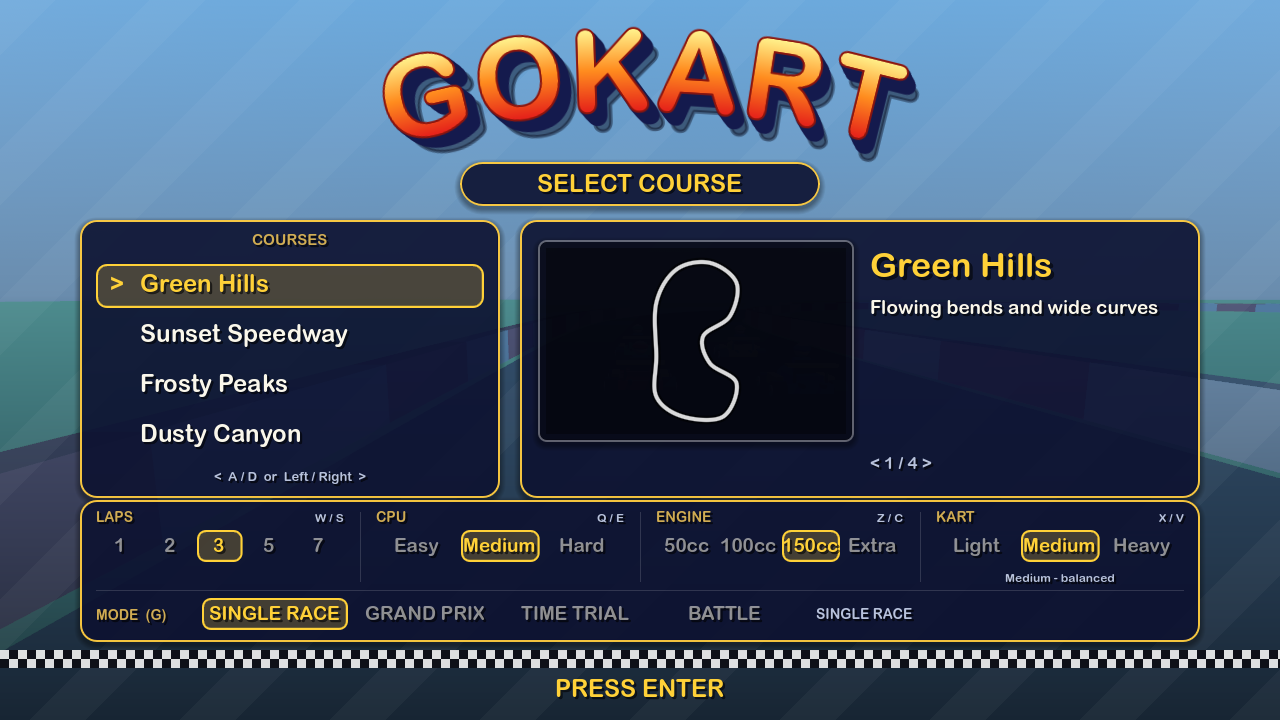
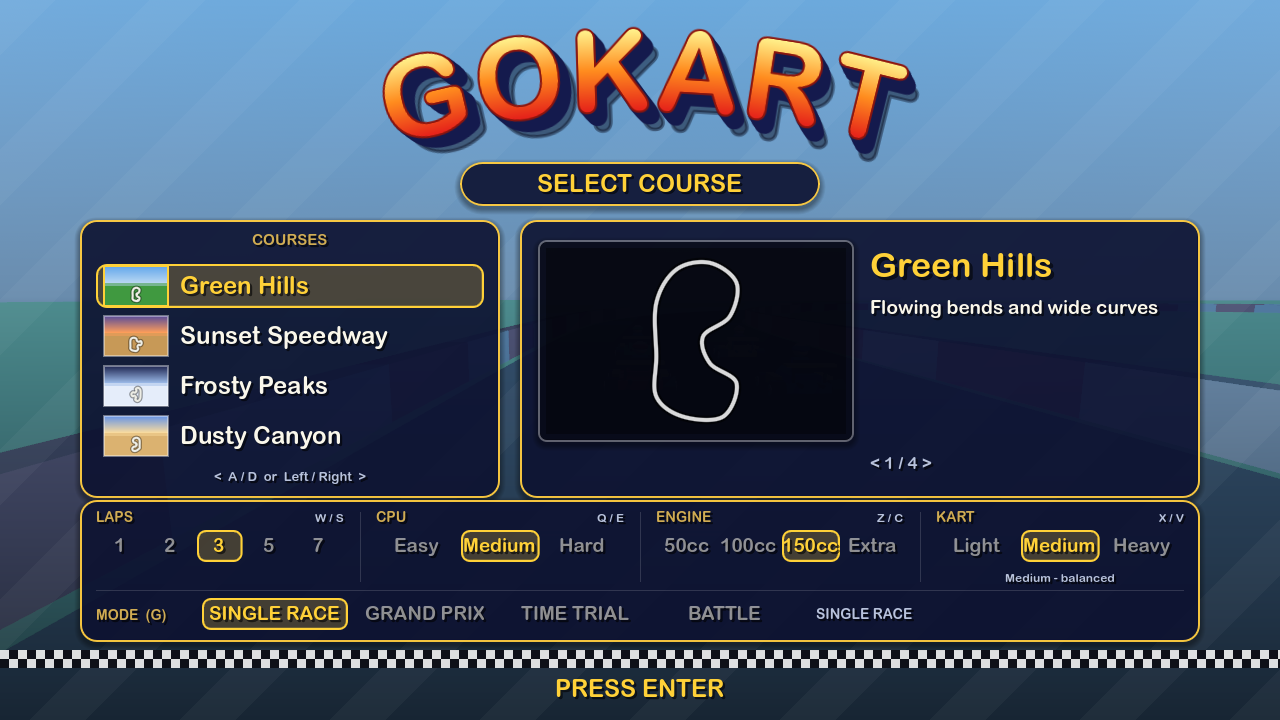
Mario Kart 64 style map-select pictures on the course list: every row of the select screen's course / arena list carries a little picture beside its name — a landscape in the course's own colours (sky gradient over the ground with a haze at the horizon) with the road loop laid across it — framed in 

Changed region(s): [[0.0625, 0.3667, 0.3125, 0.6417]]

diff --git a/.agent/autopilot/progress.md b/.agent/autopilot/progress.md
@@ -1336,6 +1336,18 @@ Mario Kart 64 style **logo** on the title / select screens (menu.gd / new shader
 - Tests: new `tests/test_logo.gd` (3 tests: arch maths; letters in order / lower and leaning at the edges / inside the box / word centred / clears the banner; layer stack colours, offsets, rim 7 px, shader params, no outline > 7, no drop shadow on the layers, no black). Suite **12836 passed, 0 failed**; menu_check OK (incl. the other /auto's in-progress files in the tree).
 - Windowed probe (deleted) sampled /tmp/gokart_title.png: logo band yellow 5797 / orange 9739 / red 5935 px, navy extrusion 17685, dark red rim 4878, **0 black**; first lit row yellow only, last lit row red only (gradient top -> bottom); middle letters' baseline 265 vs edge letters' 298 at x1.3 (arch); select screen: logo rows 32..135, 0 logo pixels in the banner strip. `tools/menu_shot.gd` regenerated `assets/screenshots/title.png` + `title-menu.png`; README updated.
 Remaining: the attract demo keeps the last course while browsing battle arenas (minor).
+## Cycle 8 — 2026-10-03 20:23
+Cycle 8 (menus / title shot): replaced the plain red-with-gold-outline "GOKART" Label with a **Mario Kart 64–style logo** — committed as 7dfe440 (+ e96af43 project memory). Only my files were staged; the other /auto's uncommitted drift work (hud.gd, kart*.gd, sound_synth.gd, test_effects/items/kart_physics, tools/screenshot.gd, drift_check.gd, .agent/subagents/) was left untouched.
+
+**What changed**
+- `scripts/menu.gd` `_build_title`: web sources describe MK64's wordmark as massive letters shaded yellow → orange → red with bold shadows for a 3D look. "GOKART" is now set on an **arch** (`logo_letter_pose(centre_x, radius)` — pure: drop below the crown + tilt along the arc; radius 900 → edge letters ~26 px lower, ~14° lean), each letter its own Control turning about its baseline centre and holding a stack of Labels: a soft navy shadow, **8 navy extrusion layers** (conscious decision: MK64's block sides are black; GoKart's are deep navy — the goal forbids black outlines), a **dark red rim** (UiStyle.SIGN_RIM via `style_sign`, 7 px — the same rim as the countdown / banners, so the game's "sign" language is consistent), and a **gradient fill** painted by the new `shaders/logo_gradient.gdshader` (canvas_item shader keyed on the glyph's local y over the cap height: light yellow → orange → LOGO_RED). The old −4° slant and gold outline are gone (the arch replaces the slant). Box 800×156 at y 4 so the whole stack clears the SELECT banner at 162. Removed menu.gd's now-unused `LOGO_RIM` alias (UiStyle keeps it).
+- Tests: new `tests/test_logo.gd` (3 tests: arch maths; letters in order, lower + leaning at the edges, inside the box, word centred, clear of the banner; layer colours / offsets / rim 7 px / shader params / no outline > 7 / no drop shadow on layers / no black). Full suite **12836 passed, 0 failed** (with the other session's in-progress files in the tree); menu_check OK.
+- Verification (I can't view images): a windowed probe (deleted) sampled the title shot — logo band yellow 5797 / orange 9739 / red 5935 px, navy extrusion 17685, dark red rim 4878, **0 black px**; first lit row yellow only, last lit row red only (gradient runs top → bottom); middle letters' baseline at row 265 vs edge letters' at 298 (arch visible); on the select screen the logo spans rows 32..135 and 0 logo pixels land in the banner strip. `tools/menu_shot.gd` regenerated `assets/screenshots/title.png` + `title-menu.png`; README (caption, Title screen feature, shaders list) and progress.md updated.
+
+**Assumptions**: MK64 logo look taken from written descriptions (gradient + 3D shadows) and memory of the arched layout; palette kept in GoKart's own warm red/gold family with navy depth, no Nintendo marks/fonts. No parity folders were given, so nothing was mirrored.
+
+**Remaining**: the attract demo keeps the last course while browsing battle arenas (minor). Blockers: none.
+
 ## Cycle 22 (session 5) — MK64 powerslide hop + stick-toggle mini-turbo
 - Web search confirmed MK64's mini-turbo: hop (R) into the powerslide, then tilt the stick against the slide and back — the smoke behind the kart turns from white to yellow, a second toggle turns it orange / red, release the slide on red for the boost (no boost before that); a steady slide never charges.
 - `scripts/kart_physics.gd`: the drift charge is now the number of completed stick toggles (`drift_outward` armed when `steer * drift_direction < -TOGGLE_STEER 0.3`, a toggle completes when it comes back past +0.3), `drift_charge_thresholds [1, 2]` (yellow / red), `boost_durations [0.0, 1.3]` — `_end_drift` only boosts when the stage's duration is > 0, so releasing on yellow gives nothing; the time-based charge line is gone. Level 3 / purple no longer exists.
@@ -1344,3 +1356,27 @@ Remaining: the attract demo keeps the last course while browsing battle arenas (
 - `tools/drift_check.gd` DRIFT CHECK: OK (after GO the player is set on the left of the road at 16 m/s: hop leaves the ground and lands, steady slide white / level 0, one toggle yellow + "MINI-TURBO..." and no boost / flames / flash on release, second slide white again with a hop, two toggles red, release -> boost_from_drift level 2, red flames, red flash, hop / mini-turbo / boost sounds). `tools/screenshot.gd` starts its slide from the left of the road at 16 m/s (the start straight's right wall is 8 m away) and toggles the stick every 8 frames until red — drift_charged shot now at lvl=2, drift shot mid-hop (y 0.275). start_check OK, smoke 7/7. README (physics line, controls, tools).
 - Finding: Green Hills' start straight is dead straight for the first ~60 m — a right-hand drift from the centre at 30 m/s hits the right wall within ~40 frames whatever the arc, so drift tools must start from the left edge at low speed.
 - Remaining MK64 ideas: a slide held too far inside goes sideways and slows (MK64), slippery road on Frosty Peaks, staff ghosts, visible Lakitu for AI rescues, Double Deck arena, AI false starts on Easy, AI shield vs red shells, cows beside Green Hills, hazards on the menu preview, Sherbet Land penguins, random_drive bot toggling for mini-turbos.
+## Cycle 22 — 2026-10-03 20:27
+Cycle 22: made the drift / mini-turbo behave like **Mario Kart 64's powerslide** — committed as c900e43 (+ 49df948 project memory). Only my files were staged; the other session's uncommitted `menu.gd` / `menu_check.gd` / `.agent/subagents/` and its progress.md hunk were left alone (progress.md committed as HEAD + my block via hash-object / update-index).
+
+**What I did**
+- Web search confirmed MK64's rules: hop (R) into the slide; tilt the stick against the slide and back — smoke turns white → yellow → orange/red on the second toggle; release on red for the boost; a steady slide never charges and yellow gives nothing.
+- `scripts/kart_physics.gd`: charge = completed stick toggles (`drift_outward` armed below −0.3, completed past +0.3), thresholds `[1, 2]` (yellow / red), `boost_durations [0.0, 1.3]` — `_end_drift` boosts only when the stage's duration > 0; the time-based blue/orange/purple charge is gone.
+- `scripts/kart.gd`: `DRIFT_HOP 4.0` m/s on `drift_started` when not airborne, scaled 1/√mass (light karts hop higher; ~0.3 m, 17 frames). `scripts/kart_effects.gd`: smoke colours white / yellow / orange-red, flame tints per stage. `scripts/hud.gd`: "MINI-TURBO..." / "MINI-TURBO!". `scripts/sound_synth.gd`: `drift_start` is a rising hop sweep.
+- Tests: test_kart_physics (steady slide stays 0, toggles 1→2→capped, boost level 2 on release, yellow release = no boost, out-then-in rules, weak push ignored, new slide starts white), test_effects (hop via hand-wired Kart node, no hop mid-air, light kart higher, toggle-based `_drift_to_level`, MK64 colours), test_items updated. Full suite **12836 passed, 0 failed**.
+- New `tools/drift_check.gd` → **DRIFT CHECK: OK** (hop leaves/lands, white steady slide, one toggle yellow + no boost/flames/flash, second slide hops again, two toggles red → boost_from_drift level 2, red flames + flash, sounds). `tools/screenshot.gd` now starts its slide from the left road edge at 16 m/s and toggles until red (drift_charged shot at lvl=2, drift shot mid-hop). start_check OK, smoke 7/7. README (physics feature line, controls table, tools), progress log, project memory updated.
+
+**Assumptions**: hop height, toggle threshold 0.3, 1.3 s boost and smoke colours are my tuning; no boost at yellow (faithful to MK64 sources); AI karts never drift so they are unaffected; the random_drive bot does not toggle (no mini-turbos in random shots). Finding: Green Hills' start straight is dead straight, so a right drift from the centre at 30 m/s hits the right wall in ~40 frames — drift tools must start from the left edge at low speed.
+
+**Remaining MK64 parity ideas**: a slide held too far inside goes sideways and slows (MK64), slippery road on Frosty Peaks, staff ghosts, visible Lakitu for AI rescues, Double Deck arena, AI false starts on Easy, AI shield vs red shells, cows beside Green Hills, hazards on the menu preview, Sherbet Land penguins, random_drive toggling for mini-turbos.
+
+**Blockers**: none. No parity folders were given, so nothing was mirrored folder-wise.
+
+
+## Cycle 9 (menus) — 2026-10-03
+Mario Kart 64 **map-select pictures on the course list** (menu.gd / tools/menu_check.gd / new tests/test_course_list.gd / title-menu.png / README only; the other /auto's drift files untouched):
+- `scripts/menu.gd`: new inner class `CourseThumb` (Control, `_draw`): a 64x40 landscape in the course's own colours — sky_top -> sky_horizon gradient over the top 42 %, the ground colour below with a haze line at the horizon, the road loop laid across the ground strip (`CourseThumb.loop_points(points, area, pad)`, pure: `Minimap.fit` into the strip, closed) in a dark ground shade with a cream centre line, a 2 px frame — white 40 % normally, GOLD on the picked row. `_refresh_list(names, sel, pictures)` now builds a `Row<i>` Control per course / arena holding the `Thumb` + the `Name` label (x 100, `UiStyle.style_label`, gold when picked, cream otherwise) over the lit bar; the ">" cursor glyph is gone (conscious decision: MK64 marks the pick with the lit frame, not a caret). Pictures come from `_track_pictures(mirror)` / `_arena_pictures()` (cached in `picture_cache` per course + mirror / per arena, so a key press does not resample every course). Constants LIST_ROW_Y / LIST_ROW_STEP / LIST_BAR_H / THUMB_POS / THUMB_SIZE / LIST_NAME_X.
+- `tools/menu_check.gd`: list rows = count + 1 (rows + lit bar; no cursor). MENU CHECK: OK. The "3 ObjectDB instances leaked" warning is the same on HEAD's menu.gd (checked by swapping the file in).
+- Tests: new `tests/test_course_list.gd` (3 tests: loop_points closed / inside the ground strip / aspect kept / empty; every row carries the course's colours + the whole loop inside the picture inside the bar, only the picked picture lit, name right of the picture, gold / cream, no outline, Right moves the frame + bar, cache keys plain vs mirrored; battle mode: a row per arena in the arena's colours with the gold frame on the picked one). Suite **12877 passed, 0 failed**.
+- Windowed probe (deleted) sampled the select shot: four pictures at x 104, y 266 / 316 / 366 / 416; each picture's top pixel in its course's sky shade and bottom-left in its ground colour (Green Hills green, Sunset sand, Frosty snow, Dusty Canyon tan), road pixels present, gold frame only on the picked row, **0 black px**. `tools/menu_shot.gd` regenerated `assets/screenshots/title-menu.png`; README updated.
+Remaining: the attract demo keeps the last course while browsing battle arenas (minor); `_refresh_battle` builds an ArenaData per refresh for the preview (pre-existing, cheap).

diff --git a/README.md b/README.md
@@ -10,7 +10,7 @@ A Mario Kart–style arcade kart racer built with **Godot 4** and GDScript. Ever
 
 ![The title screen: the arched GOKART logo over the attract demo, four CPU karts lapping the course](assets/screenshots/title.png)
 
-![The select screen: course list, map window and the option rows — every choice listed, the picked one lit — over the dimmed demo](assets/screenshots/title-menu.png)
+![The select screen: the course list with a picture beside each course, map window and the option rows — every choice listed, the picked one lit — over the dimmed demo](assets/screenshots/title-menu.png)
 
 ![Chasing the pack on Green Hills, 4th of 4 on lap 1](assets/screenshots/green-hills-chase.png)
 
@@ -50,7 +50,7 @@ Taken with `godot --path . -s tools/random_drive.gd` (a bot that wanders the roa
 - **AI difficulty** Easy / Medium / Hard on the title menu (`TrackLibrary.DIFFICULTIES`), with Mario Kart 64–style **rubber-banding**: AI karts that fall behind you get a top-speed bonus and karts far ahead ease off, scaled by difficulty (`AiDriver.rubber_band`)
 - **Engine classes** 50cc / 100cc / 150cc / Extra like Mario Kart 64 (Z / C on the title menu): the class scales every kart's top speed and acceleration, player and AI alike; **Extra** is MK64's mirror mode — 150cc speed on every course flipped left-to-right (the menu preview flips too, pads and hazards swap sides) (`TrackLibrary.ENGINE_CLASSES`, `KartPhysics.apply_engine_class`, `TrackData` `mirror` layout flag)
 - **Weight classes** Light / Medium / Heavy like Mario Kart 64's driver roster (X / V on the title menu): light karts accelerate fastest but get thrown aside, heavy karts have the highest top speed, the slowest pick-up and shove others out of the way; kart-to-kart bumps throw both karts apart along the contact, the lighter one much further and slowed, the heavier one keeping its speed. The 7 AI karts mix all three classes and heavy karts are visibly bigger (`scripts/kart_weight.gd`, `Kart.apply_weight_class`, `Kart._bump`, `Main.AI_SPECS`)
-- **Title screen** like Mario Kart 64's: the **GOKART logo** — chunky letters set on an arch like MK64's logo, each shaded from light yellow through orange to red (`shaders/logo_gradient.gdshader`) with a dark red rim, standing out of a deep navy extrusion like MK64's 3D block letters (no black) — sits over a live **attract demo** — four CPU karts lapping the highlighted course in their own 3D viewport behind the menu, watched by a chase camera that hops from kart to kart — with a blinking PRESS ENTER; any key brings up the **select screen** laid out like MK64's (the demo keeps running, dimmed, behind it): a "SELECT COURSE" banner, the course list on the left with the highlighted row lit in gold, the course map and blurb in a framed window and the option rows underneath — like MK64's Select Mode screen every choice is listed and the picked one is lit: laps 1 / 2 / 3 / 5 / 7, CPU Easy / Medium / Hard, engine 50cc / 100cc / 150cc / Extra, kart Light / Medium / Heavy (its blurb under the row) and the mode tabs SINGLE RACE / GRAND PRIX / TIME TRIAL / BATTLE as gold pills on a lit bar, the rest dim; a fixed value (time-trial laps, battle balloons) sits alone in grey; a blinking PRESS ENTER under the checkered band; a rounded system font with soft drop shadows instead of heavy black outlines. A / D or arrows pick the track, W / S the lap count (1/2/3/5/7), Enter races; Esc in a race returns to the select screen (`scripts/menu.gd`, `scripts/attract.gd`)
+- **Title screen** like Mario Kart 64's: the **GOKART logo** — chunky letters set on an arch like MK64's logo, each shaded from light yellow through orange to red (`shaders/logo_gradient.gdshader`) with a dark red rim, standing out of a deep navy extrusion like MK64's 3D block letters (no black) — sits over a live **attract demo** — four CPU karts lapping the highlighted course in their own 3D viewport behind the menu, watched by a chase camera that hops from kart to kart — with a blinking PRESS ENTER; any key brings up the **select screen** laid out like MK64's (the demo keeps running, dimmed, behind it): a "SELECT COURSE" banner, the course list on the left — like MK64's map-select pictures, a little landscape in the course's own sky and ground colours with the road loop across it beside every name, the highlighted row lit in gold with its picture framed in gold — the course map and blurb in a framed window and the option rows underneath — like MK64's Select Mode screen every choice is listed and the picked one is lit: laps 1 / 2 / 3 / 5 / 7, CPU Easy / Medium / Hard, engine 50cc / 100cc / 150cc / Extra, kart Light / Medium / Heavy (its blurb under the row) and the mode tabs SINGLE RACE / GRAND PRIX / TIME TRIAL / BATTLE as gold pills on a lit bar, the rest dim; a fixed value (time-trial laps, battle balloons) sits alone in grey; a blinking PRESS ENTER under the checkered band; a rounded system font with soft drop shadows instead of heavy black outlines. A / D or arrows pick the track, W / S the lap count (1/2/3/5/7), Enter races; Esc in a race returns to the select screen (`scripts/menu.gd`, `scripts/attract.gd`)
 - **Grand Prix cup** (G on the menu): all four tracks are raced in turn like an MK64 cup, Mario Kart 64 points (9 / 6 / 3 / 1) add up after each race, the standings follow the results and the cup ends with a gold, silver or bronze trophy. MK64 cup rules: finish **5th or worse and you rank out** — nothing is scored and the same race is run again (unlimited retries, the HUD shows "RACE 2 / 4  RETRY"); and from the second race on **everyone starts where they finished** the last race (win and you take pole, the player starts 8th only in the first race) (`scripts/grand_prix.gd`, `Main.GRID_SLOTS`)
 - **Time Trials** (G again on the menu), Mario Kart 64 style: race alone for 3 laps at 100cc with a triple mushroom and no item boxes; the five best times and the best lap of each track are saved (`user://time_trials.cfg`) and your fastest run comes back as a see-through, untouchable ghost kart that drives the exact same path on the next attempt (`scripts/time_trial.gd`, `scripts/ghost_recording.gd`, `scripts/ghost_kart.gd`)
 - **3-lap races** with ordered checkpoints and live race ranking (`scripts/lap_tracker.gd`, `scripts/race_ranking.gd`)
